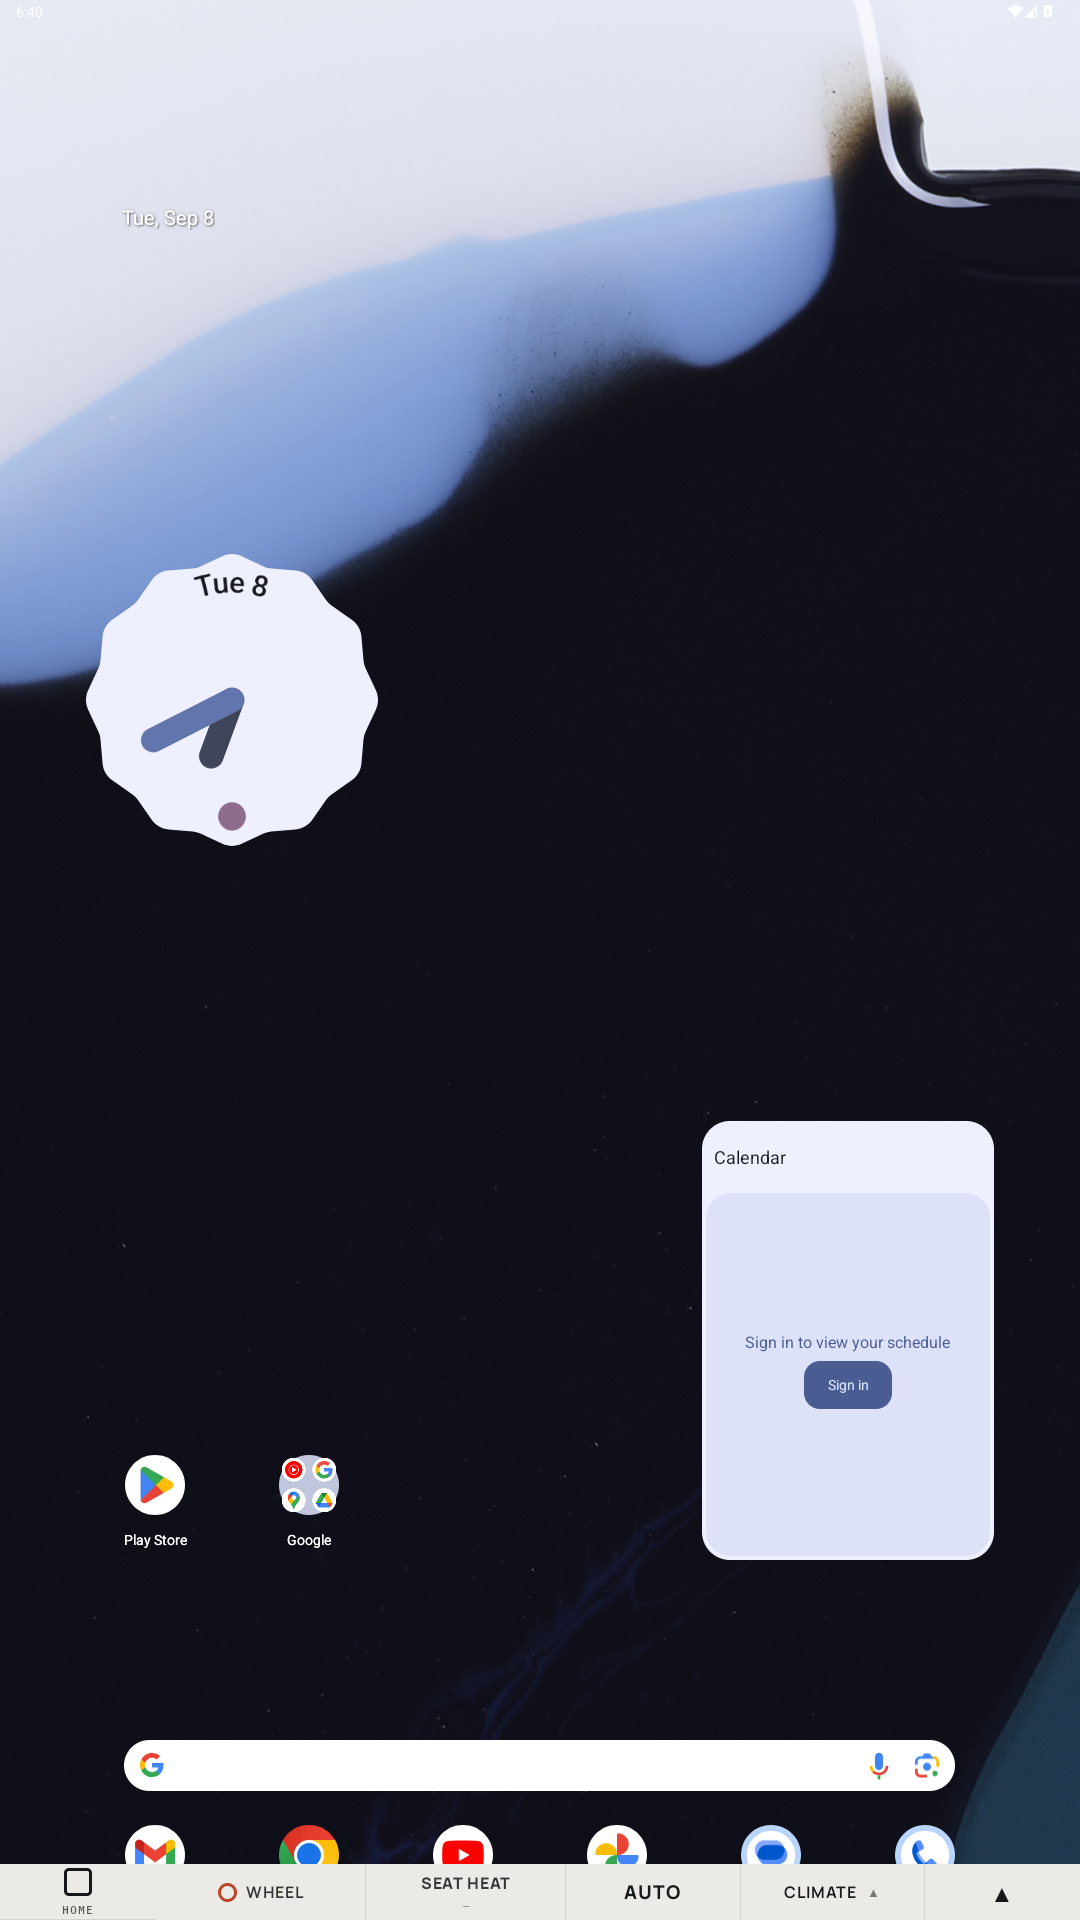
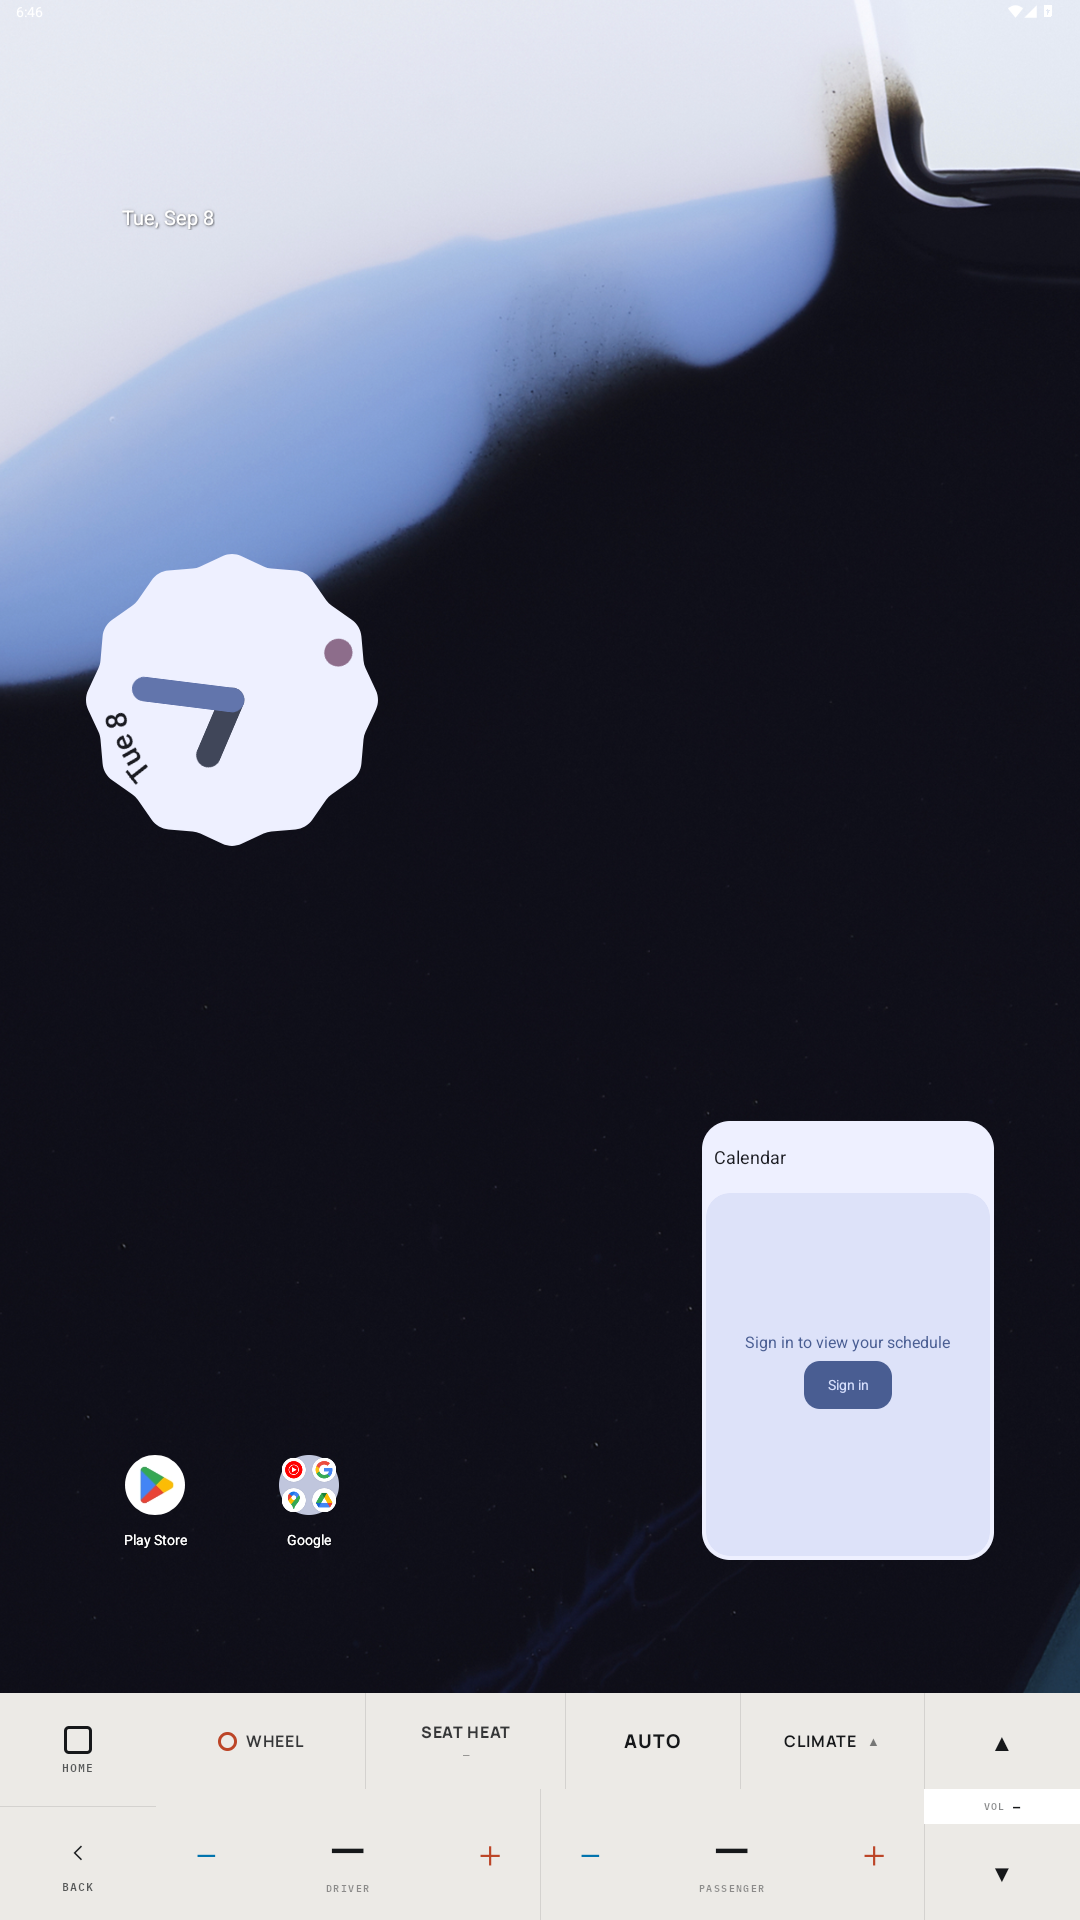
fix(app): size the bar window from the design height, warn on mismatch
The window took its height from the framework navigation_bar_height while
ClimateBar is laid out at a fixed 227dp. When the two disagree the bar
clips silently and only its top row draws -- observed on an emulator
reporting a 56px dimen. Worse, that emulator's own NavigationBar window
is 169px, so the dimen is a reserved-inset value and not necessarily the
bar the system draws. It cannot be authoritative for our geometry.

Screen 2a is built to exactly 227dp and design rule 5 says it never
grows, so the design constant is now the single source of truth for the
window height. navigation_bar_height is still read, but only to compare:
a mismatch logs a warning naming both values and saying the bar is drawn
at its design size. The symptom of unexpected hardware is a log line
instead of a quarter-rendered UI.

Position stays y = screenHeight - height, and the flags, gravity and x
measured on the vehicle are untouched.

Re-verified on the emulator: the window is now 1080x227 at
[0,1693][1080,1920] with type 2032, no FATAL, bindService still refused
gracefully with its one log line, and the whole bar draws -- both rows --
where previously only the top row did. The new warning fires there
(56 vs 227) and will stay silent on the vehicle, where the dimen is 227.

diff --git a/app/src/main/kotlin/com/wk2/climate/app/ClimateBarService.kt b/app/src/main/kotlin/com/wk2/climate/app/ClimateBarService.kt
@@ -18,7 +18,9 @@ import com.wk2.climate.bus.AdaptiveSlot
 import com.wk2.climate.bus.ClimateState
 import com.wk2.climate.bus.Signal
 import com.wk2.climate.bus.SyuVehicleBus
+import com.wk2.climate.design.Dimens
 import com.wk2.climate.ui.bar.ClimateBar
+import kotlin.math.roundToInt
 import kotlinx.coroutines.delay
 
 /**
@@ -114,9 +116,19 @@ class ClimateBarService : AccessibilityService() {
      * gravity resolves against the inset-reduced frame and the window cannot
      * enter the nav-bar region at all. Positioning from the TOP with an
      * absolute y sidesteps the negative-offset problem entirely.
+     *
+     * The height is the *design's* bar height, not the framework's
+     * `navigation_bar_height`. The two coincide on the target ROM, but the
+     * dimen is a reserved-inset value and need not equal the bar the system
+     * draws — an emulator was observed reporting 56px against a 169px nav-bar
+     * window. Sizing the window from the framework would silently clip screen
+     * 2a to its top row on any hardware that disagrees, so we draw the bar at
+     * the size it is designed for and [warnIfNavInsetDisagrees] makes a
+     * mismatch a log line instead.
      */
     private fun barWindowParams(): WindowManager.LayoutParams {
-        val height = navigationBarHeightPx()
+        val height = designBarHeightPx()
+        warnIfNavInsetDisagrees(height)
         val top = resources.displayMetrics.heightPixels - height
         return WindowManager.LayoutParams(
             WindowManager.LayoutParams.MATCH_PARENT,
@@ -134,13 +146,34 @@ class ClimateBarService : AccessibilityService() {
     }
 
     /**
-     * The bar's height is the framework's own `navigation_bar_height`, which is
-     * where the 227px comes from in the first place. Reading it keeps us aligned
-     * with the inset the system reserves instead of asserting a number.
+     * The one source of truth for the bar's height: the design constant screen
+     * 2a is laid out against. Design rule 5 — the bar never grows — makes this
+     * a fixed size, so the window must never be smaller than it.
      */
-    private fun navigationBarHeightPx(): Int {
+    private fun designBarHeightPx(): Int =
+        (Dimens.barHeight.value * resources.displayMetrics.density).roundToInt()
+
+    /**
+     * Reads the framework's `navigation_bar_height` purely to compare.
+     *
+     * If it does not match the design height then this is not the hardware the
+     * bar was measured on, and the layout's assumptions — the 227px the whole
+     * of 2a is built to, which the handoff notes cannot be exceeded without
+     * root — no longer hold. That is worth a warning, and it is much better
+     * than the alternative symptom of rendering a fragment of the UI.
+     */
+    private fun warnIfNavInsetDisagrees(designHeightPx: Int) {
         val id = resources.getIdentifier("navigation_bar_height", "dimen", "android")
-        return if (id > 0) resources.getDimensionPixelSize(id) else BAR_HEIGHT_FALLBACK_PX
+        if (id <= 0) return
+        val inset = resources.getDimensionPixelSize(id)
+        if (inset != designHeightPx) {
+            Log.w(
+                TAG,
+                "navigation_bar_height is ${inset}px but the bar is designed at " +
+                    "${designHeightPx}px — drawing at the design size. This is not the " +
+                    "hardware the bar was measured on; check what covers the factory bar.",
+            )
+        }
     }
 
     override fun onUnbind(intent: Intent?): Boolean {
@@ -163,13 +196,6 @@ class ClimateBarService : AccessibilityService() {
 
     private companion object {
         private const val TAG = "ClimateBarService"
-
-        /**
-         * Fallback for the framework's `navigation_bar_height`, which this ROM
-         * raises from AOSP's 48dp to 227px. Read the real value where possible
-         * rather than trusting this.
-         */
-        const val BAR_HEIGHT_FALLBACK_PX = 227
 
         /** The slot's own dwell is 30s, so polling faster than this buys nothing. */
         const val SLOT_POLL_MS = 5_000L
